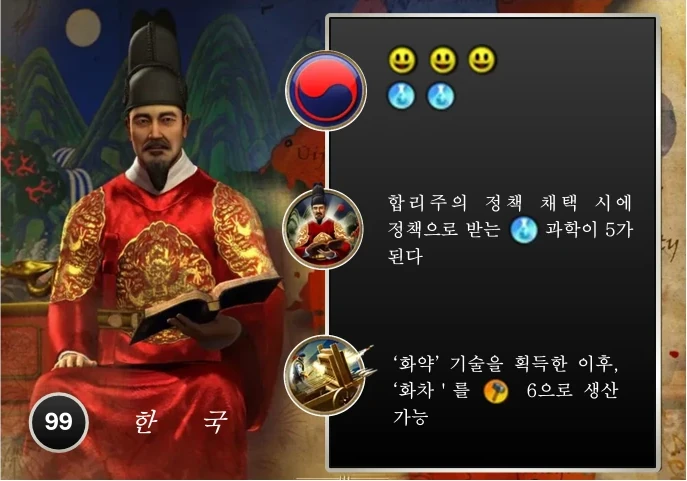
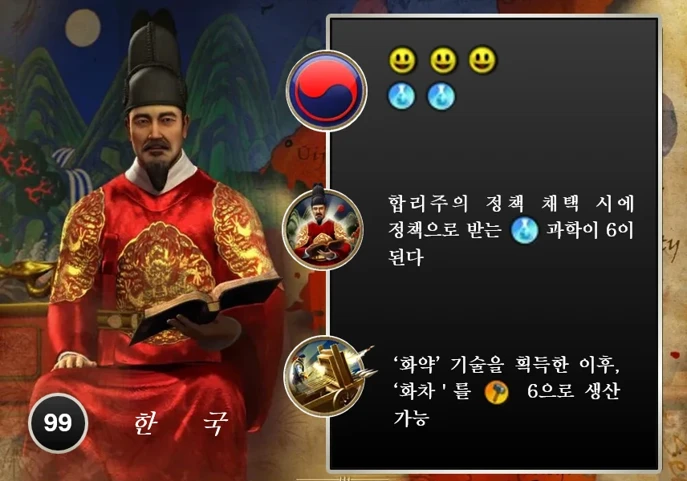
합리주의 과학 4(한국 6)·한국 카드·정책 카드 교체, 같은 타일 선전포고 불가, 만리장성 사용 버튼을 자신의 차례에 상시 표시
Claude-Session: https://claude.ai/code/session_01RAyYJg3yqsP1EQBtC7udPM

diff --git a/src/engine/ai.ts b/src/engine/ai.ts
@@ -4,7 +4,7 @@ import { MILITARY_CARDS, RESOURCES, TECHS, WONDERS, cardById, civById } from './
 import { cardStats } from './cardstats'
 import type { TechDef } from './data'
 import { apply, researchableTechs } from './game'
-import { ctxOf, culture, happiness, tileYield, totalWorkers, tourism } from './yields'
+import { ctxOf, culture, happiness, rationalismScience, tileYield, totalWorkers, tourism } from './yields'
 import { investableWonders, minHammers } from './wonders'
 import { cardCost, producible, uniqueOf, upgradeTargets } from './military'
 import { declarationTargets, occupiedTiles } from './war'
@@ -233,7 +233,7 @@ function cardOptions(p: Player): { def: (typeof MILITARY_CARDS)[number]; unique?
 
 /**
  * 정책 고르기: 과학이 모자라 기술을 못 연구할 지경이면 합리주의·자유로, 아니면 미학·전통으로 번성한다.
- * 과학 가능량 = 기본 과학 + (식량을 과학으로 바꿀 수 있으면) 남는 식량. 자유는 식량 전부, 합리주의는 +3(한국 +5).
+ * 과학 가능량 = 기본 과학 + (식량을 과학으로 바꿀 수 있으면) 남는 식량. 자유는 식량 전부, 합리주의는 +4(한국 +6).
  */
 /** 이 정도 타일(영토)이 있으면 문화보다 과학을 챙긴다 */
 const TERRITORY_OK = 10
@@ -241,7 +241,7 @@ const TERRITORY_OK = 10
 function policyOrder(s: GameState, p: Player): Policy[] {
   const turn = p.turn
   const food = turn ? turn.yields.cities.reduce((n, c) => n + c.food, 0) : 0
-  const base = turn ? turn.yields.science - (p.policy === 'rationalism' ? (p.civId === 'korea' ? 5 : 3) : 0) : 0
+  const base = turn ? turn.yields.science - (p.policy === 'rationalism' ? rationalismScience(p.civId) : 0) : 0
   const writing = p.techs.includes('writing')
   const cheapest = Math.min(...researchableTechs(s).map((t) => t.cost), 99)
   const withNone = base + (writing ? Math.max(0, food - totalWorkers(p)) : 0)
@@ -268,7 +268,7 @@ function policyOrder(s: GameState, p: Player): Policy[] {
   // 발판(미학·전통)이 다져졌으면(영토가 충분하고 일꾼이 행복 한계에 가깝다) 스퍼트: 자유·합리주의로 과학을 몰아 올린다
   const foundationDone = tiles >= TERRITORY_OK && totalWorkers(p) >= happiness(p) - 1
   if (foundationDone || withNone < Math.min(need, 4)) {
-    const withRational = base + (p.civId === 'korea' ? 5 : 3) + (writing ? Math.max(0, food - totalWorkers(p)) : 0)
+    const withRational = base + rationalismScience(p.civId) + (writing ? Math.max(0, food - totalWorkers(p)) : 0)
     const withLiberty = base + (writing ? food : 0)
     return withLiberty >= withRational ? ['liberty', 'rationalism', ...POLICY_PREFERENCE] : ['rationalism', 'liberty', ...POLICY_PREFERENCE]
   }

diff --git a/src/engine/__tests__/stage3.test.ts b/src/engine/__tests__/stage3.test.ts
@@ -1023,3 +1023,35 @@ describe('군사 카드 데이터', () => {
     expect(MILITARY_CARDS.find((c) => c.id === 'cannon')).toBeTruthy()
   })
 })
+
+describe('같은 타일에는 선전포고 불가', () => {
+  it('이미 누군가 선전포고한 타일은 다른 문명의 목표에서 빠진다', () => {
+    let s = mod(round2(['korea', 'russia', 'china'], [hand4(), hand4(), hand4()]), (c) => {
+      c.players[0].generals = 1
+      c.players[2].generals = 1
+    })
+    const target = tileId(s, 1, 1)
+    expect(declarationTargets(s, s.players[2]).some((t) => t.defenderId === 1 && t.tileId === target)).toBe(true)
+    s = toDeclare(s)
+    s = apply(s, { type: 'declareWar', defenderId: 1, cityId: 0, tileId: target })
+    expect(declarationTargets(s, s.players[2]).some((t) => t.defenderId === 1 && t.tileId === target)).toBe(false)
+    expect(declarationTargets(s, s.players[2]).some((t) => t.defenderId === 1 && t.tileId === tileId(s, 1, 2))).toBe(true)
+  })
+
+  it('만리장성은 자신의 차례 어느 단계에서든 쓸 수 있다', () => {
+    const base = mod(round2(['korea', 'russia']), (c) => {
+      c.players[0].wonders.push('great_wall')
+      c.players[1].generals = 0
+      c.players[1].cities[0].tiles[1].occupiedBy = 0
+      c.players[0].cities[0].tiles[1].occupiedBy = 1
+    })
+    // place 단계에서 바로
+    const s = apply(base, { type: 'useGreatWall' })
+    expect(s.players[0].greatWallUsed).toBe(true)
+    expect(s.players[0].cities[0].tiles[1].occupiedBy).toBeUndefined()
+    expect(() => apply(s, { type: 'useGreatWall' })).toThrow(RuleError)
+    // research 단계에서도
+    const r = apply(apply(base, { type: 'placeWorkers', placements: [] }), { type: 'useGreatWall' })
+    expect(r.players[0].greatWallUsed).toBe(true)
+  })
+})

diff --git a/src/engine/war.ts b/src/engine/war.ts
@@ -37,10 +37,13 @@ function cityAttackable(attacker: Player, defender: Player, city: City): boolean
 export function declarationTargets(s: GameState, p: Player): DeclTarget[] {
   const out: DeclTarget[] = []
   if (p.eliminated || s.declarations.some((d) => d.attackerId === p.id)) return out
+  // 같은 타일에는 선전포고가 하나만 걸린다 (이미 누군가 노린 타일은 제외)
+  const targeted = (defenderId: number, cityId: number, tileId: number) =>
+    s.declarations.some((d) => d.defenderId === defenderId && d.cityId === cityId && d.tileId === tileId)
   if (freeWorkers(p) < 1) return out
   for (const city of p.cities) {
     for (const t of city.tiles) {
-      if (t.occupiedBy !== undefined && t.occupiedBy !== p.id && !s.players[t.occupiedBy].eliminated) {
+      if (t.occupiedBy !== undefined && t.occupiedBy !== p.id && !s.players[t.occupiedBy].eliminated && !targeted(p.id, city.id, t.card.id)) {
         out.push({ defenderId: t.occupiedBy, cityId: city.id, tileId: t.card.id, kind: 'retake' })
       }
     }
@@ -50,6 +53,7 @@ export function declarationTargets(s: GameState, p: Player): DeclTarget[] {
     if (opp.id === p.id) continue
     for (const city of opp.cities) {
       for (const t of city.tiles) {
+        if (targeted(opp.id, city.id, t.card.id)) continue
         if (t.role === 'city') {
           if (cityAttackable(p, opp, city)) out.push({ defenderId: opp.id, cityId: city.id, tileId: t.card.id, kind: 'city' })
         } else if (t.occupiedBy === undefined) {

diff --git a/src/ui/panels/ProducePanel.tsx b/src/ui/panels/ProducePanel.tsx
@@ -1,5 +1,5 @@
 import { useState } from 'react'
-import { MILITARY_CARDS, cardById, cardCost, civById, investableWonders, minHammers, producible, uniqueOf, upgradeTargets, wonderCardById, TECHS, occupiedTiles } from '../../engine'
+import { MILITARY_CARDS, cardById, cardCost, civById, investableWonders, minHammers, producible, uniqueOf, upgradeTargets, TECHS, occupiedTiles } from '../../engine'
 import { UnitCard } from '../cards/UnitCard'
 import { WonderCard } from '../cards/WonderCard'
 import { cardText, conditionText, ICON, wonderEffectText } from '../format'
@@ -194,11 +194,6 @@ export function ProducePanel({ game, player, dispatch }: PanelProps) {
               ☢ 원자폭탄: {civById(o.civId).name} {t.card.terrains.join('·')} 파괴
             </button>
           ))}
-        {player.wonders.includes('great_wall') && !player.greatWallUsed && (
-          <button onClick={() => dispatch({ type: 'useGreatWall' })} title={wonderCardById('great_wall').name}>
-            🧱 만리장성 사용 (상대 장군 모두 돌려보냄, 1회)
-          </button>
-        )}
         <button className="primary" onClick={() => dispatch({ type: 'endProduction' })}>
           생산 끝내기
         </button>

diff --git a/src/engine/yields.ts b/src/engine/yields.ts
@@ -96,7 +96,7 @@ export function computeYields(player: Player): TurnYields {
   if (ctx.techs.has('astronomy') && player.cities[0]?.tiles.some((t) => (t.role === 'city' || t.role === 'side') && t.card.terrains.includes('산'))) science += 5
   // 경제학: 다음 차례부터 금 +4
   if (ctx.techs.has('economics') && !ctx.fresh.has('economics')) gold += 4
-  if (player.policy === 'rationalism') science += player.civId === 'korea' ? 5 : 3
+  if (player.policy === 'rationalism') science += rationalismScience(player.civId)
   if (player.wonders.includes('colossus')) gold += 4
   // 공중정원: 다음 차례부터 첫 도시 식량 +1
   if (player.wonders.includes('hanging_gardens') && cities.length) cities[0].food += 1
@@ -126,6 +126,9 @@ export function happiness(player: Player): number {
   }
   return civ.happiness + luxuries.size + bonus
 }
+
+/** 합리주의: 매 차례 과학 4 (한국은 6) */
+export const rationalismScience = (civId: string): number => (civId === 'korea' ? 6 : 4)
 
 /** 턴당 관광: 평등(문화 3당 1), 세계화·냉각기술(문화 3당 1), 루브르 +3, 에펠탑 +4 (프랑스는 불가사의 관광 2배). */
 export function tourism(player: Player): number {

diff --git a/src/engine/__tests__/stage2.test.ts b/src/engine/__tests__/stage2.test.ts
@@ -94,13 +94,13 @@ describe('정책', () => {
     expect(me(s).cities[0].workers).toBe(2)
   })
 
-  it('합리주의: 매 차례 과학 +3 (한국은 5)', () => {
+  it('합리주의: 매 차례 과학 +4 (한국은 6)', () => {
     const base = solo('denmark')
     const withP = mod(base, (c) => (c.players[0].policy = 'rationalism'))
-    expect(computeYields(me(withP)).science - computeYields(me(base)).science).toBe(3)
+    expect(computeYields(me(withP)).science - computeYields(me(base)).science).toBe(4)
     const k = solo('korea')
     const kp = mod(k, (c) => (c.players[0].policy = 'rationalism'))
-    expect(computeYields(me(kp)).science - computeYields(me(k)).science).toBe(5)
+    expect(computeYields(me(kp)).science - computeYields(me(k)).science).toBe(6)
   })
 
   it('평등: 문화 3당 관광 1', () => {

diff --git a/src/ui/GameScreen.tsx b/src/ui/GameScreen.tsx
@@ -212,6 +212,13 @@ export function GameScreen({ initial, seats, onExit }: Props) {
           </span>
         )}
       </div>
+      {!over && !curtain && !actorSeat.ai && game.phase !== 'setup' && game.phase !== 'battle' && player.wonders.includes('great_wall') && !player.greatWallUsed && (
+        <div className="panel row">
+          <button onClick={() => dispatch({ type: 'useGreatWall' })} title="내 영토 위의 상대 장군을 모두 돌려보냅니다 (게임 중 1회)">
+            🧱 만리장성 사용 (상대 장군 모두 돌려보냄, 1회)
+          </button>
+        </div>
+      )}
       {main}
       {showBoard && <Board game={game} player={player} />}
       {actorSeat.ai && !over && <Board game={game} player={player} />}

diff --git a/src/engine/game.ts b/src/engine/game.ts
@@ -244,7 +244,7 @@ export function apply(prev: GameState, action: Action): GameState {
       detonateAtomicBomb(s, p, action)
       return s
     case 'useGreatWall':
-      expectPhase(s, 'produce')
+      expectPhase(s, 'place', 'research', 'produce', 'declare') // 자신의 차례에는 언제든 쓸 수 있다
       activateGreatWall(s, p)
       return s
     case 'endProduction':

diff --git a/docs/rules.md b/docs/rules.md
@@ -444,7 +444,7 @@
 
   자유             시행 중에는 식량이 모자라도 일꾼을 잃지 않습니다
 
-  합리주의         시행 중에는 매 차례 과학 3을 얻습니다
+  합리주의         시행 중에는 매 차례 과학 4를 얻습니다
 
   평등             시행 중에는 매 턴 자신의 문화 3당 관광 1을 얻습니다
 
@@ -691,7 +691,7 @@
                               보너스                      
   ---------- --------- ------ --------- ----------------- ----------------
   한국       99        3      과학 2    합리주의 정책의   화차 (화약 이후)
-                                        과학이 5          
+                                        과학이 6          
 
   독일       92        4      금 3      장군을 얻을       팬저 (탱크)
                                         때마다 생산가능한 
